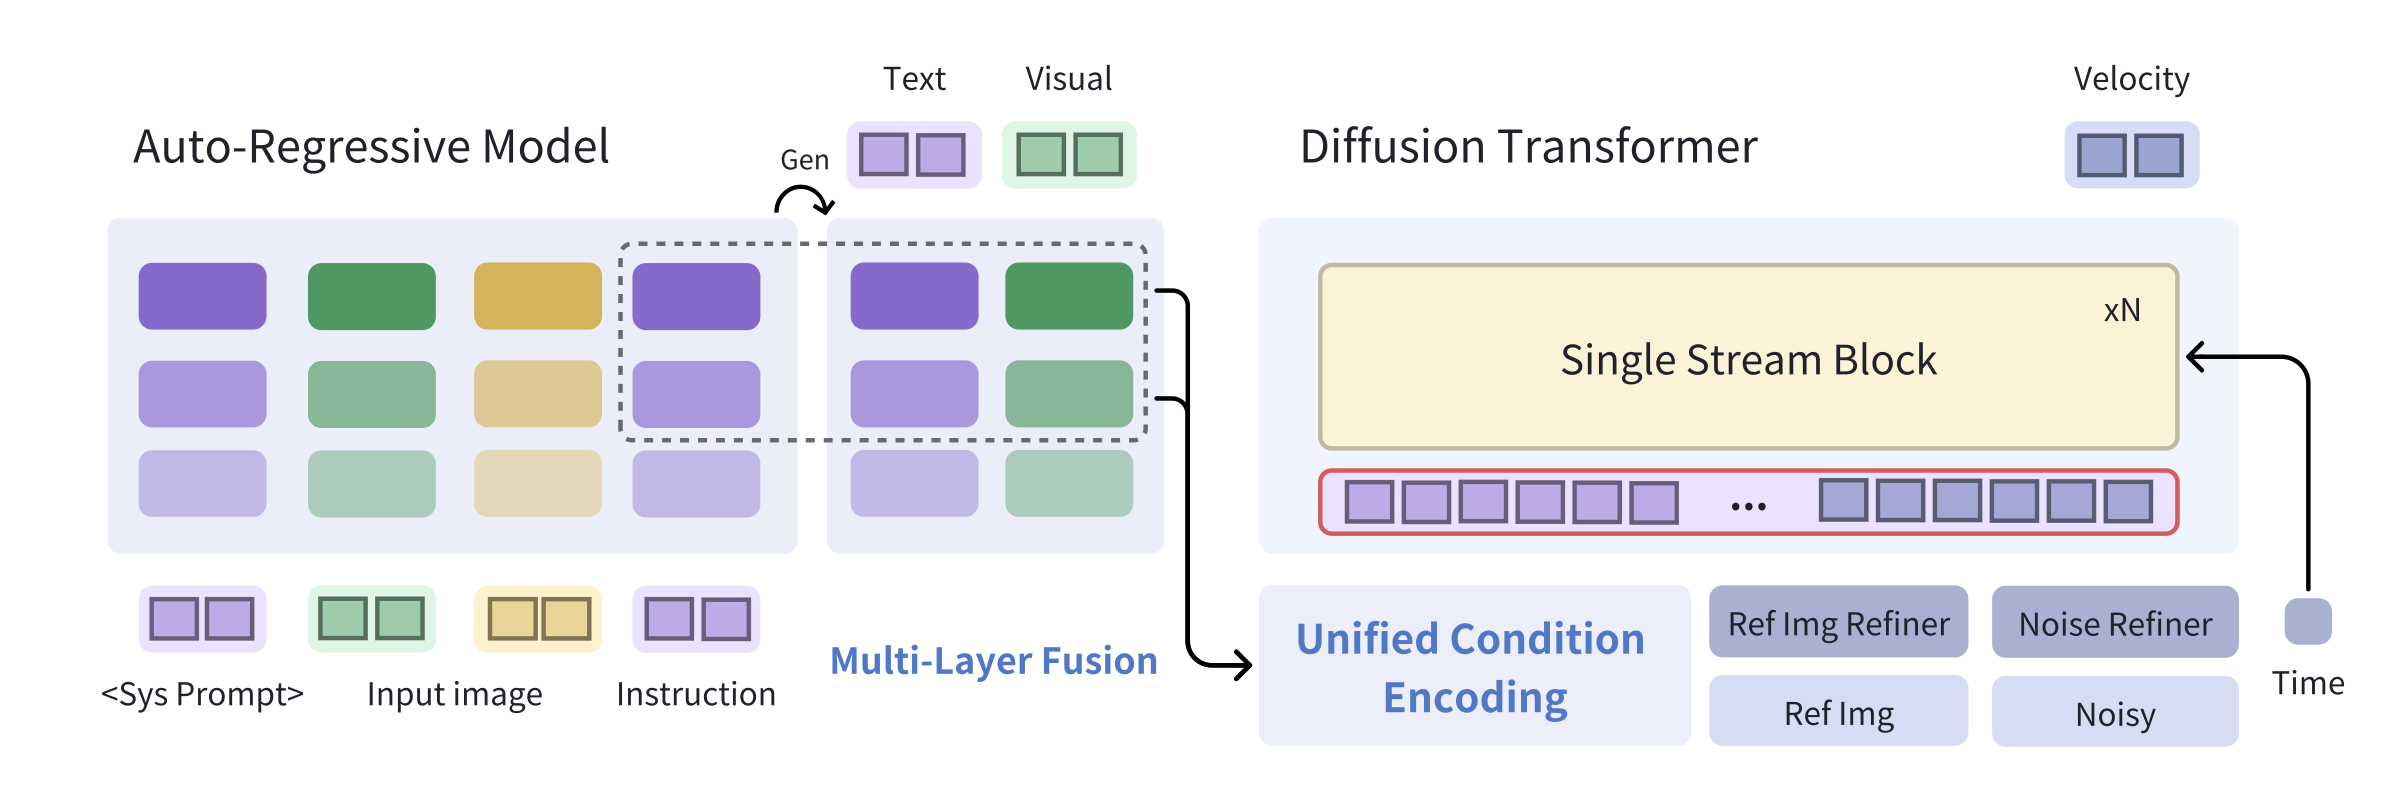
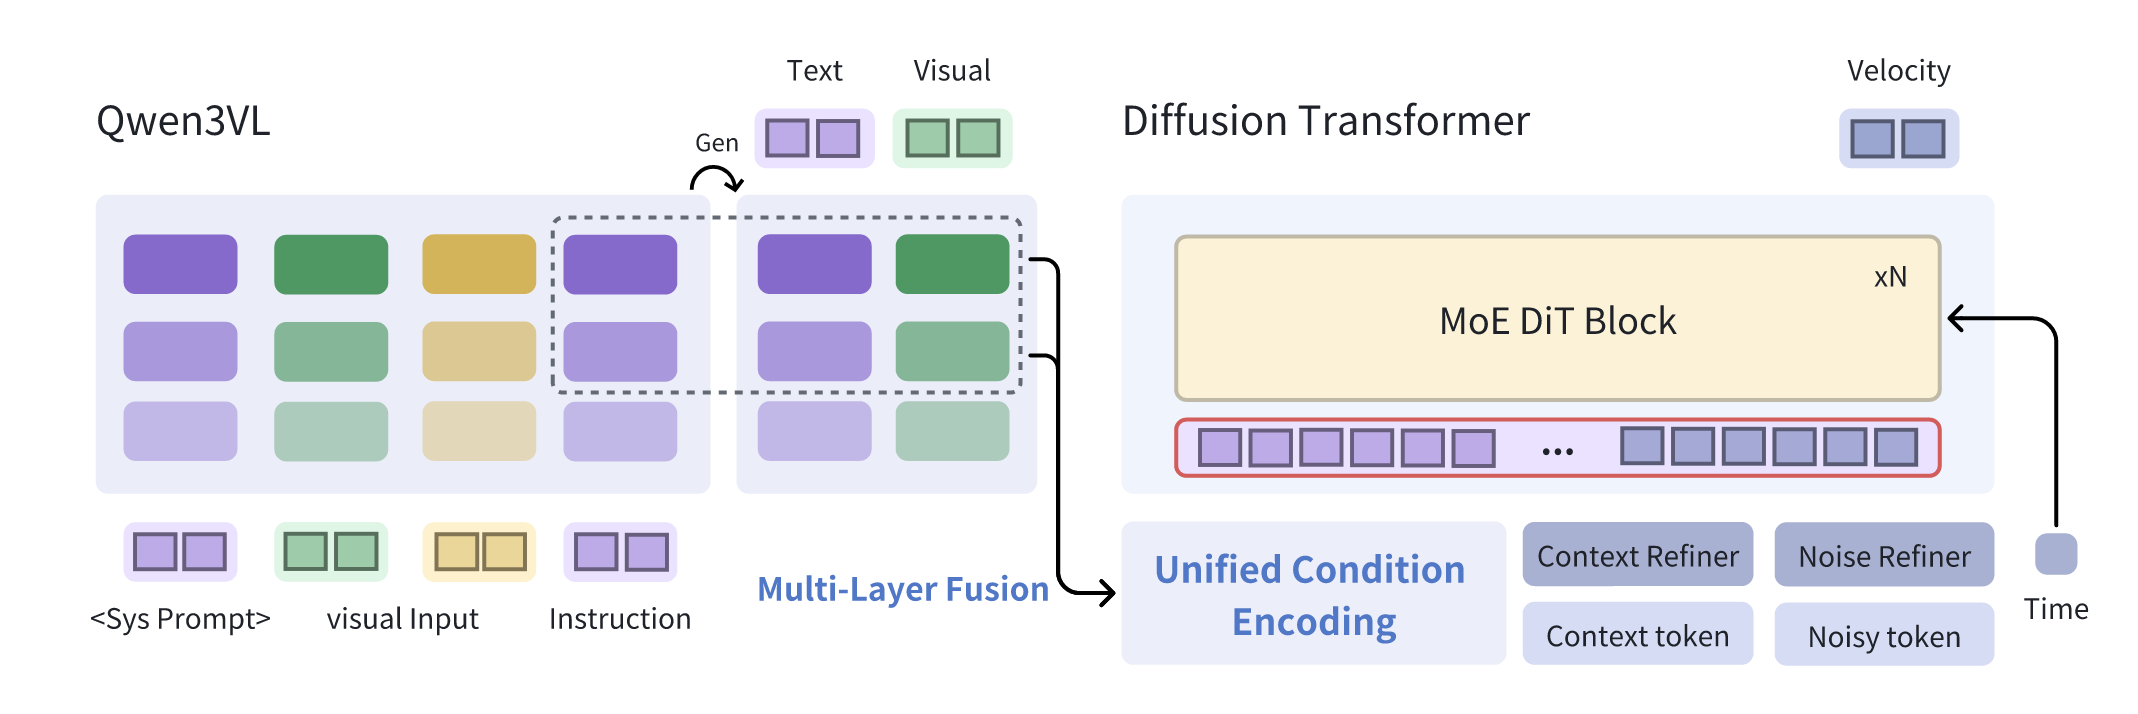
update

diff --git a/index.html b/index.html
@@ -1077,7 +1077,7 @@
                     <div class="highlight-body">
                         <div class="highlight-title">MoE DiT for Video Generation at Scale</div>
                         <p class="highlight-text">
-                            MammothModa integrates a <span class="accent-highlight">Mixture-of-Experts (MoE)</span> architecture into the <span class="accent-highlight">Video Generation</span> pipeline to address the compute bottlenecks that emerge when scaling video models. MammothModa includes two MoE variants: <span class="accent-highlight">20B-A4.5B</span> (48A6) and <span class="accent-highlight">7B-A1.3B</span> (32A4). Despite having ~40% more total parameters than WanVideo 14B, the 20B model activates only <span class="accent-highlight">~20%</span> of parameters at inference, achieving up to <span class="accent-highlight">15.1×</span> faster generation.
+                            MammothModa integrates a <span class="accent-highlight">Mixture-of-Experts (MoE)</span> architecture into the <span class="accent-highlight">Video Generation</span> pipeline to address the compute bottlenecks that emerge when scaling video models. MammothModa includes two MoE variants: 20B-A4.5B (E48A6) and 7B-A1.3B (E32A4). Despite having ~40% more total parameters than WanVideo 14B, the 20B model activates only <span class="accent-highlight">~20%</span> of parameters at inference, achieving up to <span class="accent-highlight">15.1×</span> faster generation.
                         </p>
                     </div>
                 </div>
@@ -1094,7 +1094,7 @@
                     <div class="highlight-body">
                         <div class="highlight-title">Unified Multimodal Design</div>
                         <p class="highlight-text">
-                            A single AR-diffusion framework that supports text-to-image, image editing, and
+                            A single <span class="accent-highlight">AR-diffusion</span> framework built on <span class="accent-highlight">Qwen3VL</span> for multimodal understanding and an MoE DiT backbone for generation, supporting text-to-image, image editing, and
                             text-to-video generation with shared representations and training recipes.
                         </p>
                     </div>
@@ -1112,8 +1112,7 @@
                     <div class="highlight-body">
                         <div class="highlight-title">Efficient & Strong on Public Benchmarks</div>
                         <p class="highlight-text">
-                            Mammoth25 (20B-A4.5B) delivers 11–15× lower video latency than state-of-the-art video generators（e.g., LongCat-Video） while maintaining
-                            strong performance on VBench2 with a 60.97% total score.
+                            Mammoth25 (20B-A4.5B) delivers 11–15× lower video latency than state-of-the-art video generators (e.g., LongCat-Video), while achieving strong quality on VBench2.0 with a 60.97% total score, outperforming Wan2.1-14B and HunyuanVideo1.0-13B and approaching LongCat-Video-14B.
                         </p>
                     </div>
                 </div>
